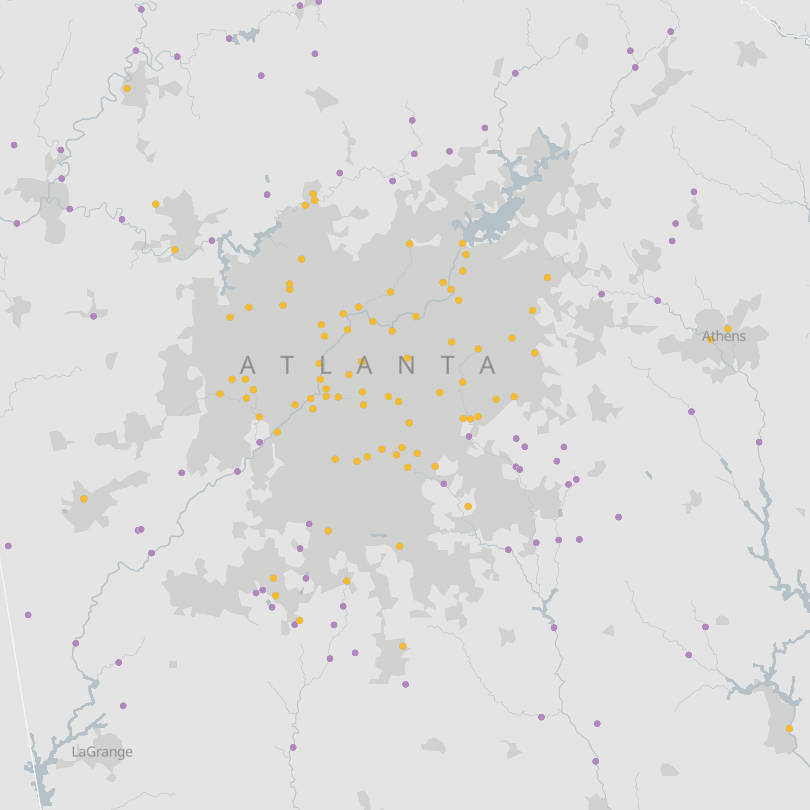
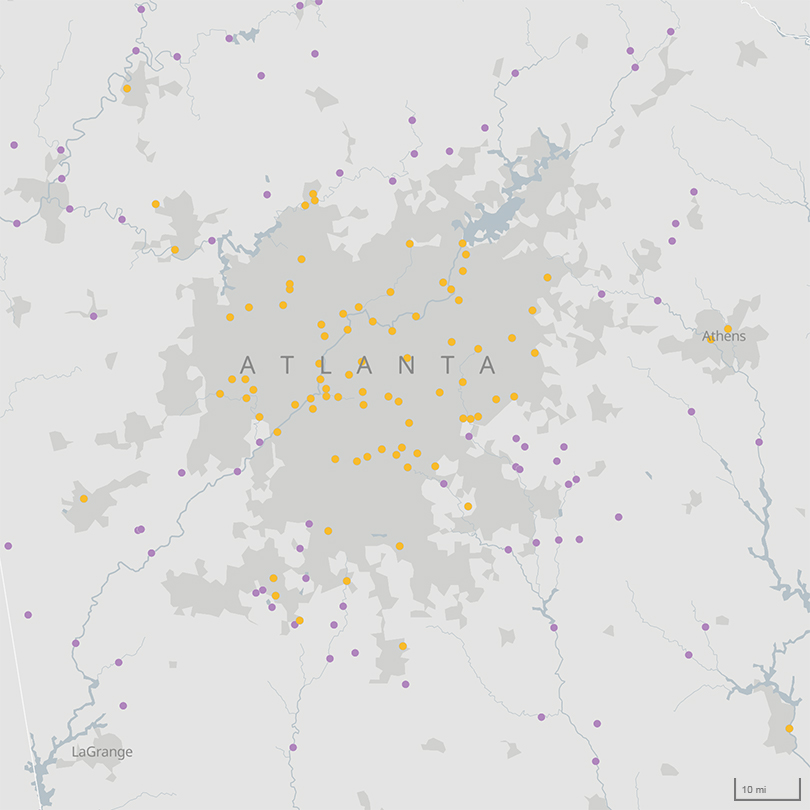
Rez options for slider

diff --git a/src/components/MapImageSlider.vue b/src/components/MapImageSlider.vue
@@ -9,9 +9,9 @@
         </div>
         <div id="georgiaSlider" class="sliderContainer">
             <div id="sliderOne" class="beer-slider" data-beer-label="2018">
-                <img src="@/assets/images/slider/georgiaAfter.png" alt="USGS Gages in Atlanta Georgia in 2018">
+                <img srcset="@/assets/images/slider/georgiaAfterSmall.jpg 400w, @/assets/images/slider/georgiaAfterMedium.jpg 600w" sizes="(max-width: 600px) 600px, 810px" src="@/assets/images/slider/georgiaAfter.jpg" alt="USGS Gages in Atlanta Georgia in 2018">
                 <div class="beer-reveal" data-beer-label="1967">
-                    <img src="@/assets/images/slider/georgiaBefore.png" alt="USGS Gages in Atlanta Georgia in 1967">
+                    <img srcset="@/assets/images/slider/georgiaBeforeSmall.jpg 400w, @/assets/images/slider/georgiaBeforeMedium.jpg 600w" sizes="(max-width: 600px) 600px, 810px" src="@/assets/images/slider/georgiaBefore.jpg" alt="USGS Gages in Atlanta Georgia in 1967">
                 </div>
             </div>
             <GeorgiaInsetMap />
@@ -25,51 +25,20 @@
         >
             <p><span v-html="paragraph.belowSliderText" /></p>
         </div>
-        <h2 class="spacer">
-            {{ coloradoText.title }}
-        </h2>
-        <div
-            v-for="paragraph in coloradoText.paragraphSections"
-            :key="paragraph.aboveSliderText"
-        >
-            <p><span v-html="paragraph.aboveSliderText" /></p>
-        </div>
-        <div id="coloradoSlider" class="sliderContainer">
-            <div id="sliderTwo" class="beer-slider" data-beer-label="2018">
-                <img src="@/assets/images/slider/coloradoAfter.png" alt="USGS Gages in Atlanta Georgia in 2018">
-                <div class="beer-reveal" data-beer-label="1967">
-                    <img src="@/assets/images/slider/coloradoBefore.png" alt="USGS Gages in Atlanta Georgia in 1967">
-                </div>
-            </div>
-            <ColoradoInset />
-        </div>
-        <caption class="mapcaption">
-            <span v-html="coloradoText.caption" />
-        </caption>
-        <div
-            v-for="paragraph in coloradoText.paragraphSections"
-            :key="paragraph.paragraphText"
-        >
-            <p><span v-html="paragraph.paragraphText" /></p>
-        </div>
     </div>
 </template>
 <script>
 import BeerSlider from "beerslider";
 import GeorgiaInsetMap from './georgiaInsetMap';
-import ColoradoInset from './coloradoInsetMap';
 import atlantaSliderText from "../assets/mapboxSlider/atlantaSliderText";
-import coloradoSliderText from "../assets/mapboxSlider/coloradoSliderText";
 export default {
     'name': 'MapImageSlider',
     components:{
-        GeorgiaInsetMap,
-        ColoradoInset
+        GeorgiaInsetMap
     },
     data(){
         return{
-            atlantaText: atlantaSliderText.textContents,
-            coloradoText: coloradoSliderText.textContents
+            atlantaText: atlantaSliderText.textContents
         }
     },
     mounted(){
